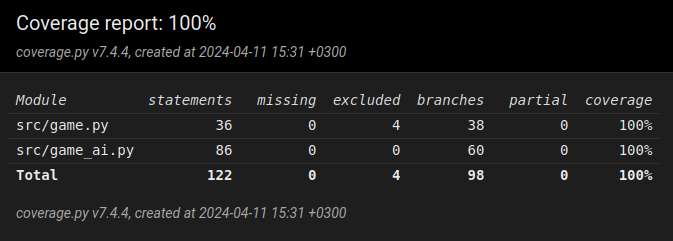
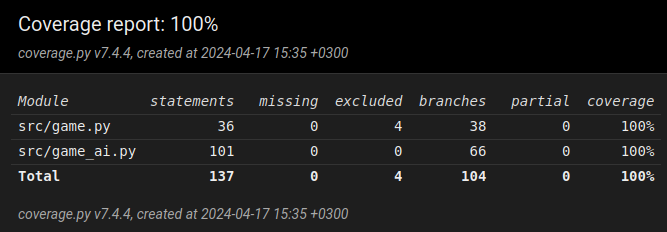
Viikko 5

diff --git a/src/tests/game_ai_test.py b/src/tests/game_ai_test.py
@@ -45,41 +45,54 @@ class TestGameAI(unittest.TestCase):
         """
         player1_piece = "X"
         player2_piece = "O"
+        move_count = 1
         board = [
             ["  ", "  ", "  ", "  ", "  ", "  ", "  "],
             ["  ", "  ", "  ", "  ", "  ", "  ", "  "],
             ["  ", "  ", "  ", "  ", "  ", "  ", "  "],
             ["  ", "  ", "  ", "  ", "  ", "  ", "  "],
             ["  ", "  ", "  ", "  ", "  ", "  ", "  "],
-            ["  ", "  ", "  ", "  ", "  ", "  ", "  "]
+            ["  ", "  ", "  ", "X", "  ", "  ", "  "]
         ]
         depth = 3
         alpha = float("-inf")
         beta = float("inf")
         player = True
-        move_count = 0
+        move_count = 7
         self.assertEqual(minimax(board, depth, alpha, beta, player,
-                                  move_count, player1_piece, player2_piece), (3, 11))
+                                  move_count, player1_piece, player2_piece), (3, 10))
         board = [
             ["  ", "  ", "  ", "  ", "  ", "  ", "  "],
             ["  ", "  ", "  ", "  ", "  ", "  ", "  "],
             ["  ", "  ", "  ", "  ", "  ", "  ", "  "],
             ["  ", "  ", "  ", "  ", "  ", "  ", "  "],
-            ["  ", "  ", "  ", "  ", "  ", "  ", "  "],
-            ["O", "O", "O", "  ", "  ", "  ", "  "]
+            ["  ", "  ", "  ", "  ", "  ", "  ", "X"],
+            ["O", "O", "O", "  ", "X", "X", "X"]
         ]
         self.assertEqual(minimax(board, depth, alpha, beta, player,
                                   move_count, player1_piece, player2_piece), (3, 1000))
+        move_count = 5
         board = [
             ["  ", "  ", "  ", "  ", "  ", "  ", "  "],
             ["  ", "  ", "  ", "  ", "  ", "  ", "  "],
             ["  ", "  ", "  ", "  ", "  ", "  ", "  "],
             ["  ", "  ", "  ", "  ", "  ", "  ", "  "],
-            ["  ", "  ", "  ", "  ", "  ", "  ", "  "],
-            ["X", "X", "X", "  ", "  ", "  ", "  "]
+            ["  ", "  ", "  ", "  ", "  ", "  ", "O"],
+            ["X", "X", "X", "  ", "  ", "  ", "O"]
         ]
         self.assertEqual(minimax(board, depth, alpha, beta, player,
-                                  move_count, player1_piece, player2_piece), (3, 10))
+                                  move_count, player1_piece, player2_piece), (3, 14))
+        move_count = 42
+        board = [
+            ["X", "O", "X", "O", "X", "O", "X"],
+            ["X", "O", "X", "O", "X", "O", "X"],
+            ["O", "X", "O", "X", "O", "X", "O"],
+            ["O", "X", "O", "X", "O", "X", "O"],
+            ["X", "O", "X", "O", "X", "O", "X"],
+            ["X", "O", "X", "O", "X", "O", "X"]
+        ]
+        self.assertEqual(minimax(board, depth, alpha, beta, player,
+                                  move_count, player1_piece, player2_piece), (None, 0))
 
     def test_iterative_deepening(self):
         """
@@ -103,7 +116,7 @@ class TestGameAI(unittest.TestCase):
         time_limit = 2
         self.assertEqual(iterative_deepening(board, max_depth, alpha, beta, player, move_count,
                                               time_limit, player1_piece, player2_piece), 3)
-        max_depth = 10
+        max_depth = 100000
         time_limit = 1
         self.assertEqual(iterative_deepening(board, max_depth, alpha, beta, player, move_count,
                                               time_limit, player1_piece, player2_piece), 3)

diff --git a/src/game_ai.py b/src/game_ai.py
@@ -7,6 +7,9 @@ import game
 ROWS = 6
 COLUMNS = 7
 
+#Luodaan hajautus taulu
+hash_map = {}
+
 def check_value(area, piece, player1_piece, player2_piece):
     """
     Laskee lähellä olevien nappuloiden arvot
@@ -64,12 +67,33 @@ def board_value(board, piece, player1_piece, player2_piece):
 
     return value
 
+def store(board, best_move):
+    """
+    Talletaa arvon hajautustauluun
+    """
+    board_key = str(board)
+    hash_map[board_key] = best_move
 
-def minimax(board, depth, alpha, beta, player, move_count, player1_piece, player2_piece): #pylint: disable=too-many-arguments
+def retrieve(board):
+    """
+    Hakee arvon hajautustaulusta
+    """
+    board_key = str(board)
+    if board_key in hash_map:
+        return hash_map[board_key]
+    return None
+
+def minimax(board, depth, alpha, beta, player, move_count, player1_piece, player2_piece): #pylint: disable=too-many-arguments, too-many-return-statements, too-many-branches
     """
     Minimax-algoritmi alfa-beeta-karsinnalla
     """
+    best_move = retrieve(board)
+    if best_move is not None:
+        return best_move, board_value(board, player2_piece, player1_piece, player2_piece)
+
     if depth == 0 or move_count == 42:
+        if move_count == 42:
+            return None, 0
         return None, board_value(board, player2_piece, player1_piece, player2_piece)
 
     if player: #pylint: disable=no-else-return
@@ -132,4 +156,5 @@ def iterative_deepening(board, max_depth, aplha, beta, player, move_count, time_
         if time.time() - start_time > time_limit:
             break
         best_move = move
+    store(board, best_move)
     return best_move

diff --git a/dokumentaatio/viikkoraportit/viikko5.md b/dokumentaatio/viikkoraportit/viikko5.md
@@ -1,0 +1,5 @@
+# Viikko 5
+
+Tällä viikolla lisäsäin tekoälyyni hajautustaulun. Muokkasin myös vähen tekoälyni yksikkötestäjä, uusien muutosten pohjalta. Ja tein vertaisarvion.
+
+Seuraavalla viikolla ajattelin muokata työtäni saamani viiko ja vertaisarvioiden pohjalta.

diff --git a/README.md b/README.md
@@ -21,6 +21,8 @@ Harjoitustyönä tehty Connect4 peli, missä pelaaja pelaa tekoälyä vastaan.
 
 [Viikko 4](./dokumentaatio/viikkoraportit/viikko4.md)
 
+[Viikko 5](./dokumentaatio/viikkoraportit/viikko5.md)
+
 ## Asennus ja käynnistys
 
 Asenna riippuvuudet komennolla
